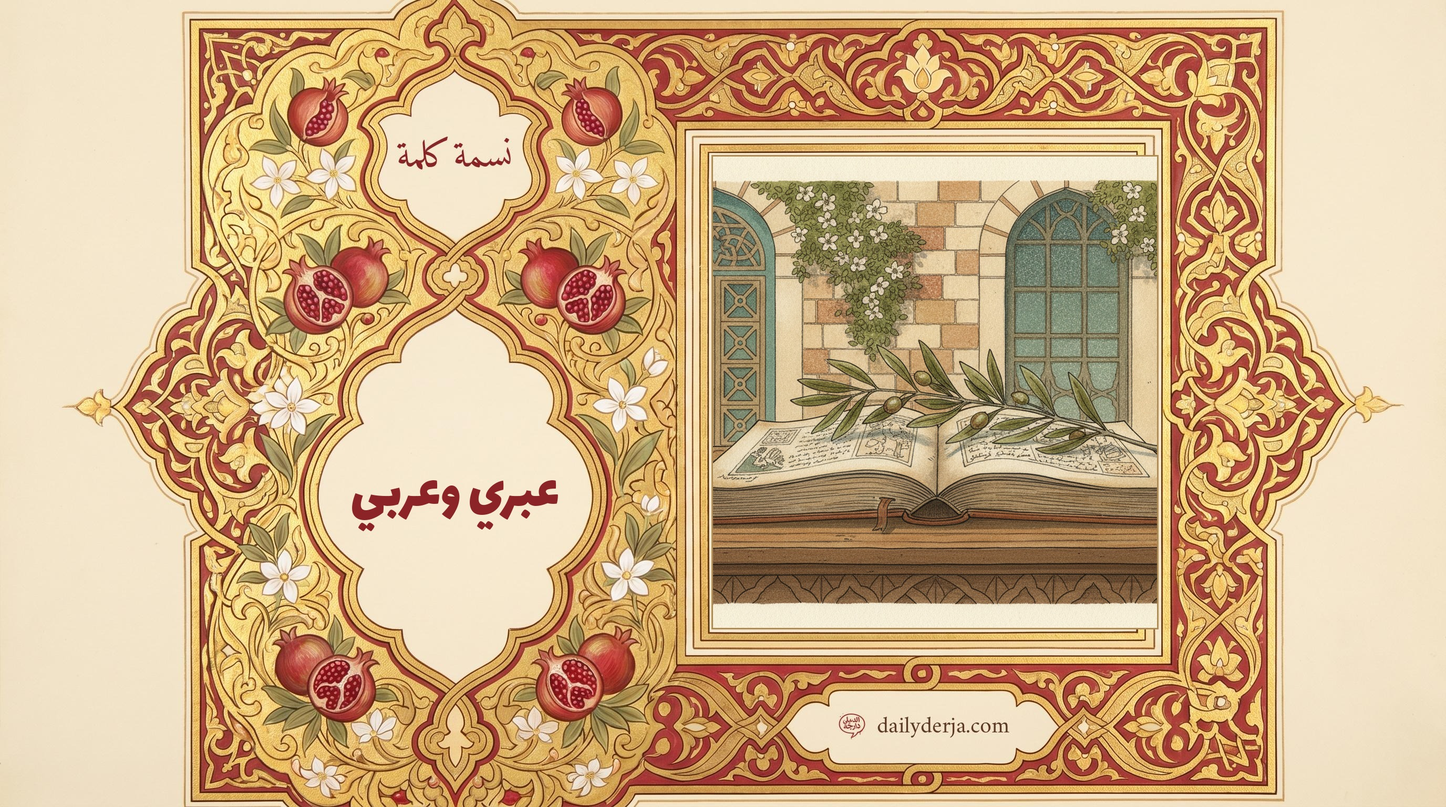
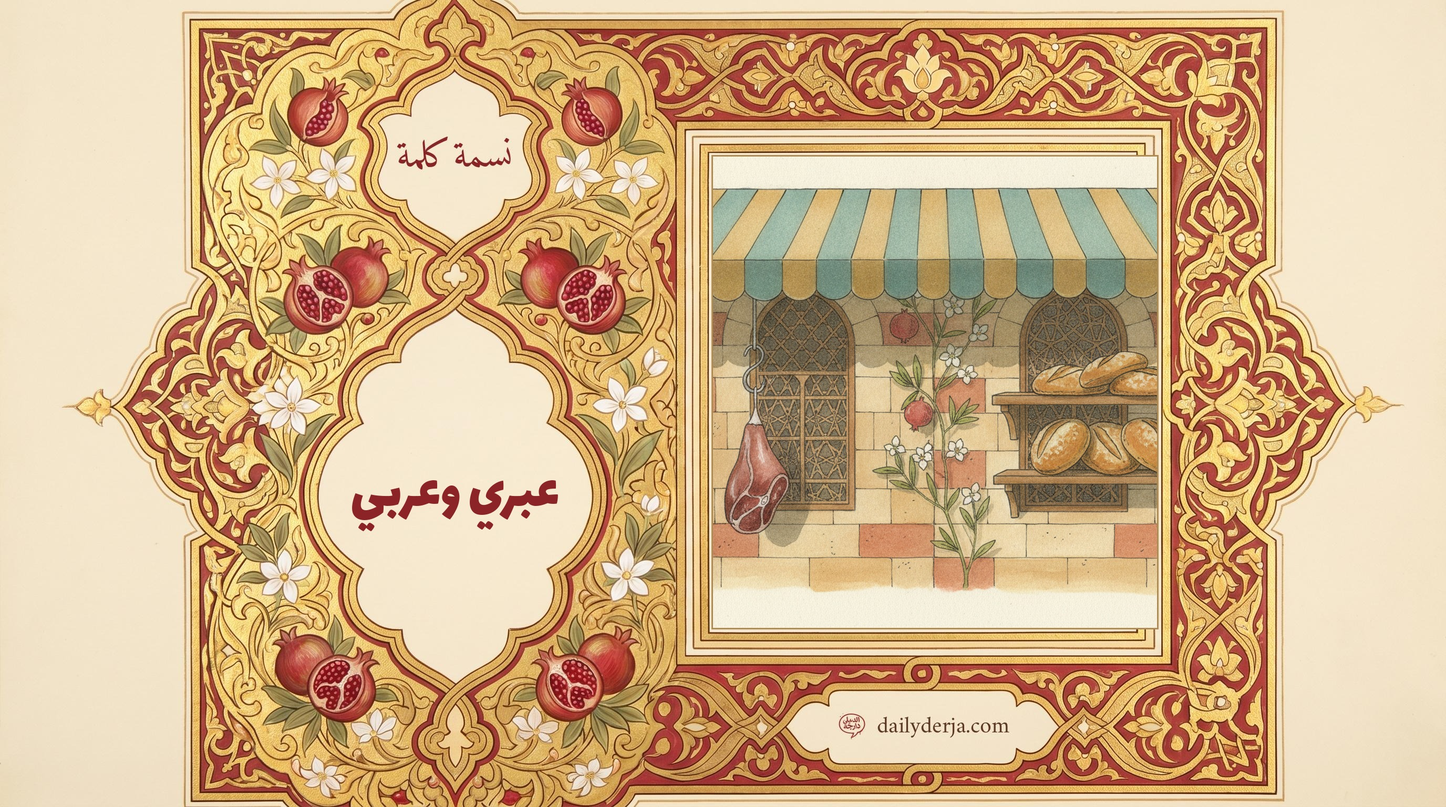
Set draft status to false for Hebrew and Arabic: Semitic Cousins post

Changed region(s): [[0.4688, 0.2188, 0.8125, 0.75]]

diff --git a/content/blog/hebrew-arabic-semitic-cousins/index.md b/content/blog/hebrew-arabic-semitic-cousins/index.md
@@ -16,7 +16,7 @@ categories:
   - language-learning
 difficulty_level: intermediate
 pullquote: إذا الواحد بيعرف عبري، هاد مش معناه إنه بيعرف عربي، والعكس صحيح.
-draft: true
+draft: false
 dialects:
   - shami
 series:
